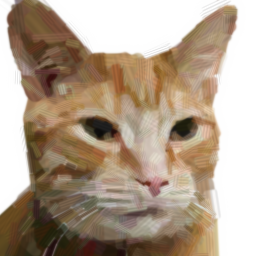
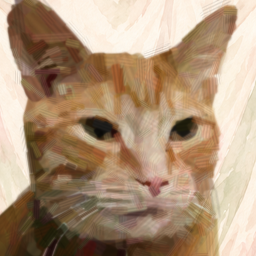
Improve running cycle and shelter canvases

diff --git a/scripts/make_stage_art.py b/scripts/make_stage_art.py
@@ -4,7 +4,8 @@
 
 Sources: background_tile_crossfade.png (the owner's watercolor strip, its ends cross-faded so it repeats
 without a seam), stall_cloth.png (the stall with its hanging cloth, on black), girl_idle.gif (12 front-facing
-frames on cream), cat_shelter.png (the shelter, on transparent, with eight empty easels), girl_run.gif (49 frames on transparent: front, starting to run, running right, stopping),
+frames on cream), cat_shelter.png (the shelter, on transparent, with eight empty easels), girl_run.gif
+(front, starting and stopping poses), girl_run_cycle_v2.png plus girl_run_pose_b.png (the two leg phases),
 girl_walk.gif (30 frames: walking away from the camera, turning, walking towards it),
 npc_<n>.gif (a buyer: walking away from the camera, turning, walking towards it), npc_<n>_idle.png
 (the same buyer standing front-facing with both feet planted), Nunito.ttf (SIL OFL,
@@ -34,11 +35,9 @@ ROUND_PX, ROUND_SUPER, ROUND_RADIUS, ROUND_EDGE = 64, 4, 18, 10   # rounded text
 STALL_PX = 640                                 # stall texture height (drawn at layout.json's height)
 CLOTH = (420, 340, 1130, 830)                  # where one can draw on the cloth, in stall_cloth.png pixels
 GIRL_PX = 320                                  # girl texture height when standing (drawn at layout.json's)
-RUN_PARTS = {"start": (1, 6), "run": (7, 41), "stop": (42, 48)}   # girl_run.gif frames, inclusive
+RUN_PARTS = {"start": (1, 6), "run": (7, 14), "stop": (15, 21)}  # rebuilt output sheet, inclusive
 NPC_PARTS = {"away": (0, 11), "turn": (12, 17), "toward": (18, 29)}   # npc_<n>.gif and girl_walk.gif, inclusive
-JUMP_FRAMES = {"rise": 7, "top": 10, "fall": 25, "land": 34}         # girl_run.gif frames shown while jumping
-RUNNING_SHARE = 0.85   # girl_run.gif draws her as tall running as standing, so her head grows; running she
-                       # is drawn this share of her standing height, easing in and out while she starts and stops
+JUMP_FRAMES = {"rise": 7, "top": 10, "fall": 13, "land": 21}
 SHELTER_PX = 880                               # shelter texture height: about the source's own
 # The blank canvases on the shelter's easels, in cat_shelter.png pixels: where adoptable cats will show.
 EASELS = [(282, 498, 381, 604), (433, 498, 532, 604), (580, 498, 682, 604), (737, 498, 839, 604),
@@ -90,6 +89,30 @@ def gif_frames(path: Path) -> tuple[list[Image.Image], list[int]]:
         out.append(im.convert("RGBA"))
         ms.append(int(im.info.get("duration", 100)))
     return out, ms
+
+
+def main_component(frame: Image.Image) -> Image.Image:
+    """Remove disconnected transparent-edge paint flecks from one ImageGen sprite."""
+    frame = frame.copy().convert("RGBA")
+    alpha = np.array(frame.getchannel("A"))
+    labelled, count = ndimage.label(alpha > 20)
+    if count:
+        sizes = ndimage.sum(alpha, labelled, range(1, count + 1))
+        keep = labelled == int(np.argmax(sizes) + 1)
+        frame.putalpha(Image.fromarray(np.where(keep, alpha, 0).astype(np.uint8), "L"))
+    return frame
+
+
+def grid_frames(path: Path, cols: int, rows: int) -> list[Image.Image]:
+    """Split an ImageGen sheet and keep only each cell's main connected alpha component."""
+    im = Image.open(path).convert("RGBA")
+    frames = []
+    for row in range(rows):
+        for col in range(cols):
+            x0, x1 = round(col * im.width / cols), round((col + 1) * im.width / cols)
+            y0, y1 = round(row * im.height / rows), round((row + 1) * im.height / rows)
+            frames.append(main_component(im.crop((x0, y0, x1, y1))))
+    return frames
 
 
 def sheet(cells: list[Image.Image], name: str, ms: list[int], anchor: tuple[int, int], **extra: object) -> None:
@@ -146,21 +169,20 @@ def fitted_sheet(frames: list[Image.Image], name: str, ms: list[int], heights: l
 def girl() -> None:
     idle, idle_ms = gif_frames(SRC / "girl_idle.gif")
     idle = [keyed(f, idle[0].convert("RGB").getpixel((1, 1))) for f in idle]
-    run, run_ms = gif_frames(SRC / "girl_run.gif")
+    old_run, old_ms = gif_frames(SRC / "girl_run.gif")
+    cycle = grid_frames(SRC / "girl_run_cycle_v2.png", 4, 2)
+    opposite = main_component(Image.open(SRC / "girl_run_pose_b.png"))
+    # The sheet's even poses carry the near leg forward; every odd pose uses the separately edited reverse
+    # layer order (near white-socked leg back, shaded far leg forward), so anatomical legs truly alternate.
+    for i in range(1, len(cycle), 2):
+        cycle[i] = opposite.copy()
+    # Keep the hand-drawn start/stop transitions, but replace the ambiguous middle with a readable cycle in
+    # which the front leg changes every half-stride. Every pose is fitted to the same height as idle.
+    run = [*old_run[:7], *cycle, *old_run[42:]]
+    run_ms = [*old_ms[:7], *([90] * len(cycle)), *old_ms[42:]]
     run = [soft_edge(f) for f in run]
     figure_sheet(idle, "girl_idle", idle_ms, GIRL_PX)
-    shares = []
-    for i in range(len(run)):
-        (s0, s1), (t0, t1) = RUN_PARTS["start"], RUN_PARTS["stop"]
-        if i < s0 or i > t1:
-            shares.append(1.0)
-        elif i <= s1:
-            shares.append(1.0 + (RUNNING_SHARE - 1.0) * (i - s0 + 1) / (s1 - s0 + 2))
-        elif i < t0:
-            shares.append(RUNNING_SHARE)
-        else:
-            shares.append(RUNNING_SHARE + (1.0 - RUNNING_SHARE) * (i - t0 + 1) / (t1 - t0 + 2))
-    fitted_sheet(run, "girl_run", run_ms, [GIRL_PX * k for k in shares], parts=RUN_PARTS, jump=JUMP_FRAMES)
+    fitted_sheet(run, "girl_run", run_ms, [GIRL_PX] * len(run), parts=RUN_PARTS, jump=JUMP_FRAMES)
     walk, walk_ms = gif_frames(SRC / "girl_walk.gif")
     figure_sheet([soft_edge(f) for f in walk], "girl_walk", walk_ms, GIRL_PX, parts=NPC_PARTS)
 
@@ -201,6 +223,16 @@ def shelter() -> None:
     easels = [[round((x0 - left) * k), round((y0 - top) * k), round((x1 - left) * k), round((y1 - top) * k)]
               for x0, y0, x1, y1 in EASELS]
     (STAGE / "shelter.json").write_text(json.dumps({"size": list(im.size), "easels": easels}, indent=1) + "\n")
+    # Multiply the paintings into the stall cloth's watercolor texture. White becomes fabric instead of an
+    # artificial white square, while every painted cat stroke keeps its original color and contrast.
+    cat_out = STAGE / "shelter_cats"
+    cat_out.mkdir(exist_ok=True)
+    cloth = Image.open(SRC / "stall_cloth.png").convert("RGB").crop((510, 400, 1040, 760))
+    for cat_path in sorted((SRC / "shelter_cats").glob("cat_*.png")):
+        cat = Image.open(cat_path).convert("RGB")
+        texture = cloth.resize(cat.size, Image.LANCZOS)
+        painted = np.asarray(cat, dtype=np.uint16) * np.asarray(texture, dtype=np.uint16) // 255
+        Image.fromarray(painted.astype(np.uint8), "RGB").save(cat_out / cat_path.name, optimize=True)
 
 
 def background() -> None:
